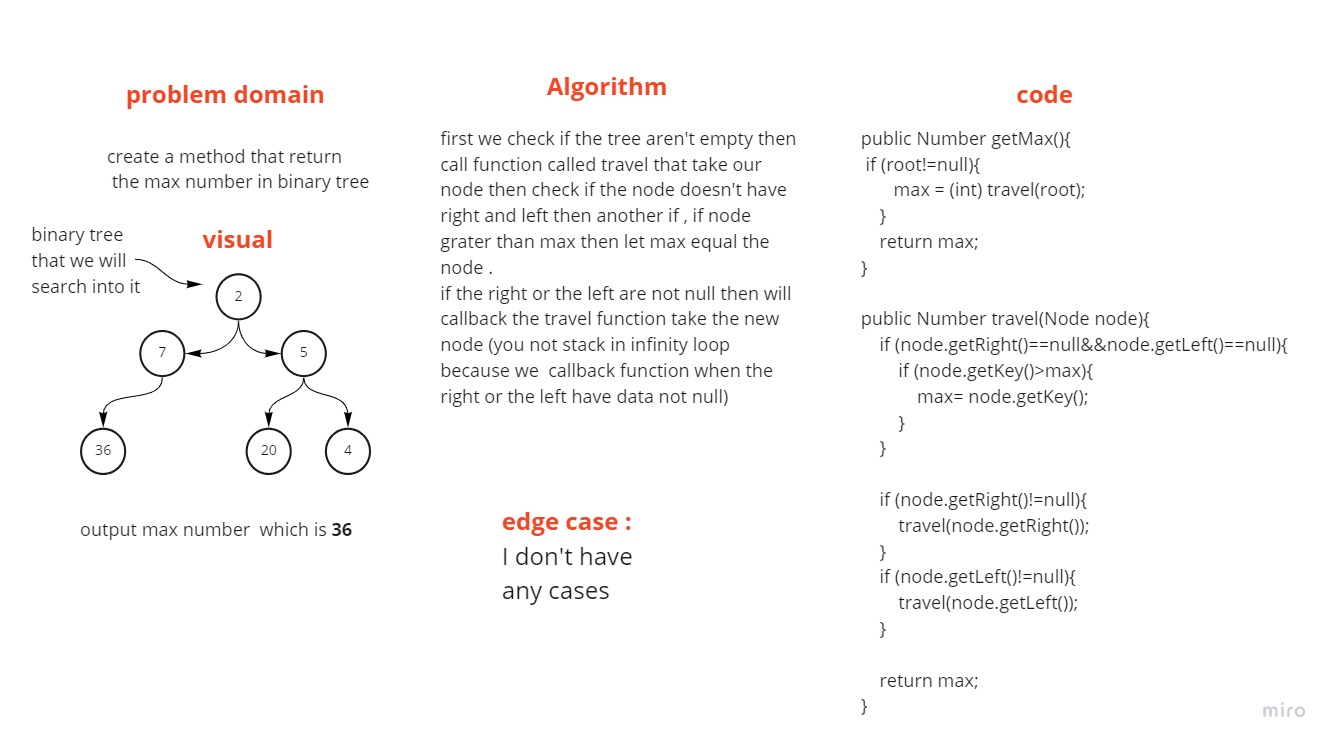
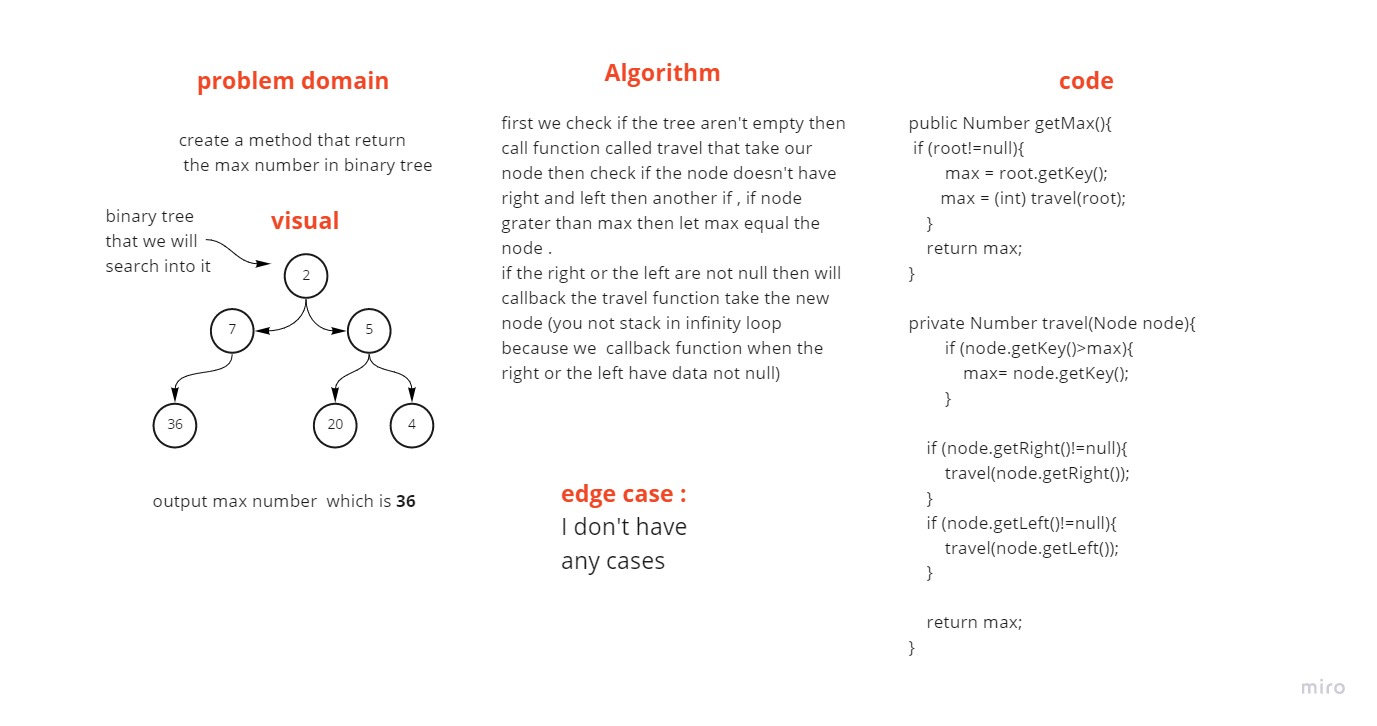
fix the getmax method and change the whiteboard

diff --git a/challenge/Tree/app/src/main/java/structure/BinaryTree.java b/challenge/Tree/app/src/main/java/structure/BinaryTree.java
@@ -43,17 +43,16 @@ public class BinaryTree  {
 
     public Number getMax(){
         if (root!=null){
+            max = root.getKey();
            max = (int) travel(root);
         }
         return max;
     }
 
-    public Number travel(Node node){
-        if (node.getRight()==null&&node.getLeft()==null){
+    private Number travel(Node node){
             if (node.getKey()>max){
                 max= node.getKey();
             }
-        }
 
         if (node.getRight()!=null){
             travel(node.getRight());

diff --git a/challenge/Tree/app/src/main/java/App.java b/challenge/Tree/app/src/main/java/App.java
@@ -21,8 +21,8 @@ public class App {
         binaryTree.getRoot().getLeft().setLeft(new Node(4));
 
         binaryTree.getRoot().getRight().setLeft(new Node(15));
-        binaryTree.getRoot().getRight().setRight(new Node(44));
-        binaryTree.getRoot().getRight().getRight().setRight(new Node(65));
+        binaryTree.getRoot().getRight().setRight(new Node(66));
+        binaryTree.getRoot().getRight().getRight().setRight(new Node(10));
 
 
         binaryTree.getRoot().getLeft().getLeft().setLeft(new Node(5));
